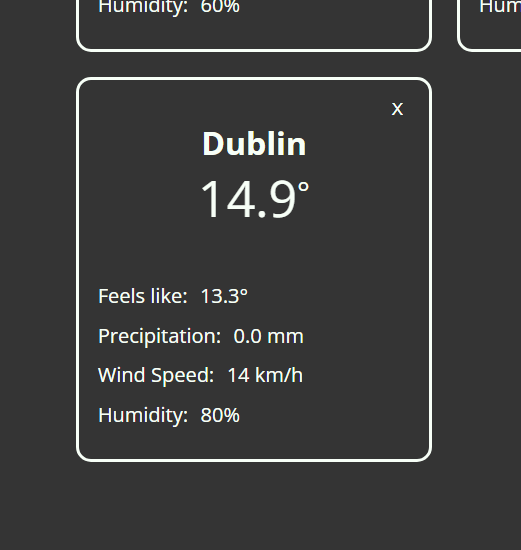
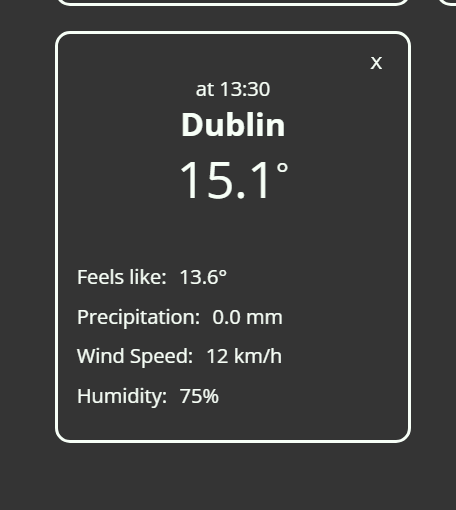
Added local time for the weather panel component

Changed region(s): [[0.1228, 0.0, 1.0, 0.8824], [0.9211, 0.0, 1.0, 0.0294], [0.7368, 0.1765, 0.7675, 0.2059]]

diff --git a/src/api/weather.js b/src/api/weather.js
@@ -5,18 +5,26 @@ export async function getWeather(latitude, longitude) {
     const params = {
         latitude: latitude,
         longitude: longitude,
-        current: ["temperature_2m", "precipitation", "wind_speed_10m", "relative_humidity_2m", "apparent_temperature"],
+        current: [
+            "temperature_2m",
+            "precipitation",
+            "wind_speed_10m",
+            "relative_humidity_2m",
+            "apparent_temperature"],
+        timezone: "auto",
     };
+
     const url = "https://api.open-meteo.com/v1/forecast";
     const responses = await fetchWeatherApi(url, params);
 
     const response = responses[0];
+    const current = response.current();
 
     // Attributes for timezone and location
     const utcOffsetSeconds = response.utcOffsetSeconds();
 
 
-    const current = response.current();
+
 
     const weatherData = {
         current: {

diff --git a/src/components/WeatherPanel.comp.jsx b/src/components/WeatherPanel.comp.jsx
@@ -21,7 +21,6 @@ function WeatherPanel({ city, latitude, longitude, removeCity }) {
 
         const interval = setInterval(() => {
             loadWeatherData();
-            console.log(`Data updated for ${city}`);
         }, 30_000);
         
         return () => clearInterval(interval);
@@ -48,6 +47,9 @@ function WeatherPanel({ city, latitude, longitude, removeCity }) {
             </div>
 
             <div className='header'>
+                <div className='time'>
+                    at {weatherData.current.time.toISOString().slice(11, 16)}
+                </div>
                 <div className='title'>
                     <h2>{city}</h2>
                 </div>

diff --git a/src/App.jsx b/src/App.jsx
@@ -64,7 +64,6 @@ function App() {
 
       <div className="app-main">
 
-
         {locations.map(location => (
           <WeatherPanel key={location.id} city={location.name}
             latitude={location.latitude} longitude={location.longitude}

diff --git a/src/style/WeatherPanel.css b/src/style/WeatherPanel.css
@@ -19,6 +19,12 @@ div.weather-panel div.header {
 
 }
 
+div.weather-panel div.header div.time {
+
+    margin-top: 0;
+
+}
+
 div.weather-panel div.header h2 {
 
     margin: 0;

diff --git a/README.md b/README.md
@@ -33,6 +33,8 @@ Click on the `X` in the top right corner to remove a city from the list.
 - **Search & Delete**: the user can add and remove any city around the globe from the panel.
 - **Auto-Refresh**: the data is refreshed every 30 seconds to avoid deprecated data.
 
+Due to API limitations, the current weather is only updated every 15 minutes.
+
 #### Architecture Overview
 
 The app is built with React, powered by Vite.
